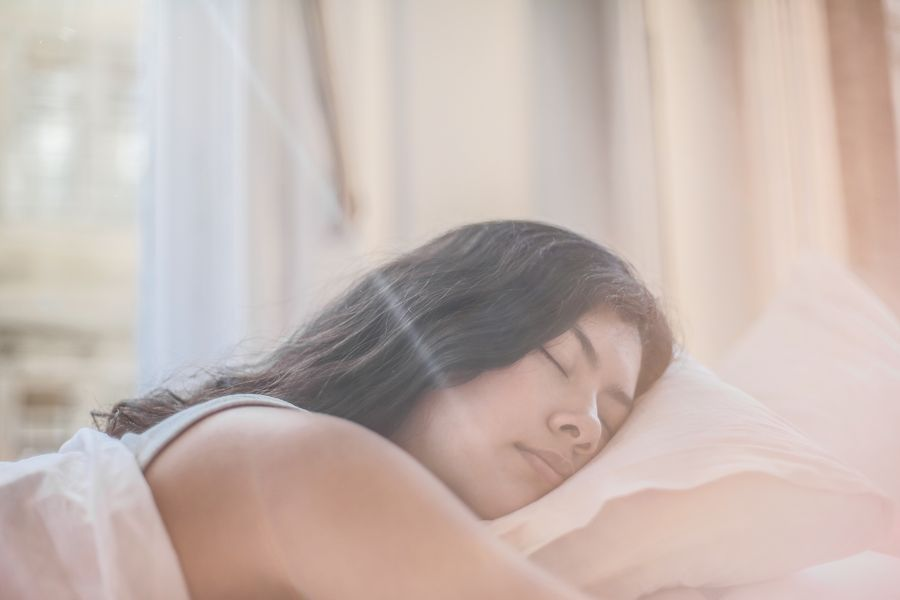
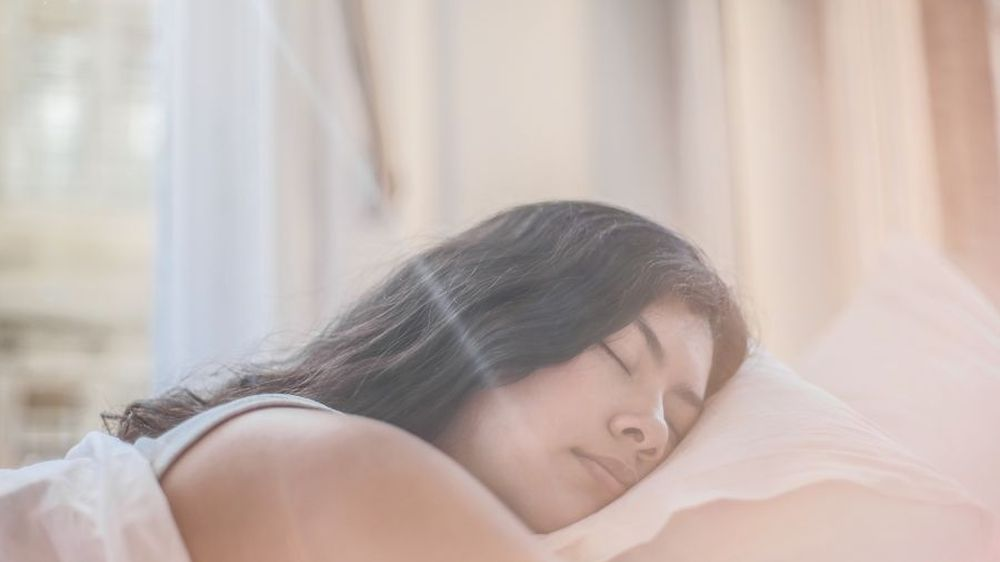
Guide the first run and cut bundled photo weight by a third
A brand-new install landed on a home screen of dashes and empty states
with no hint of what to do. A first-run card now says the one thing that
matters — mark the day your period starts — and sets the honest
expectation that estimates need two full cycles, so their absence reads
as designed rather than broken. It also offers back-dating, since most
people install mid-cycle.

Photos: 1.99 MB → 1.27 MB. Portrait sources were being center-cropped by
BoxFit.cover anyway, so pre-cropping to the aspect each card actually
renders drops the wasted pixels with no visual change (spot-checked the
results). Thumbnails and theme swatches now cap decode size via
cacheWidth/ResizeImage — a 72px thumbnail was decoding a full-resolution
bitmap into memory.

102 tests passing; Android and iOS builds verified.

diff --git a/app/lib/screens/home/widgets/first_run_card.dart b/app/lib/screens/home/widgets/first_run_card.dart
@@ -1,0 +1,80 @@
+import 'package:flutter/material.dart';
+import 'package:provider/provider.dart';
+
+import '../../../l10n/app_localizations.dart';
+import '../../../models/day_log.dart';
+import '../../../models/enums.dart';
+import '../../../state/cycle_controller.dart';
+import '../../../util/day.dart';
+
+/// Shown while there is genuinely nothing logged.
+///
+/// A brand-new install otherwise lands on a home screen full of dashes
+/// and empty states with no hint of what to do. This says the one thing
+/// that matters — mark the day your period starts — and sets the honest
+/// expectation that predictions need two full cycles first, so their
+/// absence doesn't read as the app being broken.
+class FirstRunCard extends StatelessWidget {
+  const FirstRunCard({super.key});
+
+  @override
+  Widget build(BuildContext context) {
+    final controller = context.watch<CycleController>();
+    if (controller.logs.isNotEmpty) return const SizedBox.shrink();
+
+    final l10n = AppLocalizations.of(context)!;
+    final theme = Theme.of(context);
+
+    return Container(
+      width: double.infinity,
+      padding: const EdgeInsets.all(18),
+      decoration: BoxDecoration(
+        color: theme.colorScheme.primaryContainer.withValues(alpha: 0.6),
+        borderRadius: BorderRadius.circular(20),
+      ),
+      child: Column(
+        crossAxisAlignment: CrossAxisAlignment.start,
+        children: [
+          Row(
+            children: [
+              Icon(Icons.waving_hand_outlined,
+                  size: 20, color: theme.colorScheme.onPrimaryContainer),
+              const SizedBox(width: 8),
+              Expanded(
+                child:
+                    Text(l10n.homeEmptyTitle, style: theme.textTheme.titleSmall),
+              ),
+            ],
+          ),
+          const SizedBox(height: 8),
+          Text(l10n.homeEmptyBody, style: theme.textTheme.bodySmall),
+          const SizedBox(height: 8),
+          Align(
+            alignment: AlignmentDirectional.centerEnd,
+            child: TextButton(
+              onPressed: () => _pickPastStart(context),
+              child: Text(l10n.homeEmptyBackdate),
+            ),
+          ),
+        ],
+      ),
+    );
+  }
+
+  /// Most people install mid-cycle, so "it already started earlier" is the
+  /// common case, not an edge case.
+  Future<void> _pickPastStart(BuildContext context) async {
+    final controller = context.read<CycleController>();
+    final now = today();
+    final picked = await showDatePicker(
+      context: context,
+      initialDate: now,
+      firstDate: addDays(now, -120),
+      lastDate: now,
+    );
+    if (picked == null) return;
+    await controller.upsertDay(
+      DayLog(date: dateOnly(picked), flow: FlowIntensity.medium),
+    );
+  }
+}

diff --git a/app/lib/l10n/app_localizations.dart b/app/lib/l10n/app_localizations.dart
@@ -2523,6 +2523,24 @@ abstract class AppLocalizations {
   /// In en, this message translates to:
   /// **'Past cycles'**
   String get insightsCycleHistoryEntry;
+
+  /// No description provided for @homeEmptyTitle.
+  ///
+  /// In en, this message translates to:
+  /// **'Let\'s start with your last period'**
+  String get homeEmptyTitle;
+
+  /// No description provided for @homeEmptyBody.
+  ///
+  /// In en, this message translates to:
+  /// **'Tap the button above on the day your period starts. After two full cycles Vera can start estimating — until then it won\'t pretend to know.'**
+  String get homeEmptyBody;
+
+  /// No description provided for @homeEmptyBackdate.
+  ///
+  /// In en, this message translates to:
+  /// **'It already started earlier'**
+  String get homeEmptyBackdate;
 }
 
 class _AppLocalizationsDelegate

diff --git a/app/lib/screens/home/home_screen.dart b/app/lib/screens/home/home_screen.dart
@@ -13,6 +13,7 @@ import 'widgets/ad_placeholder_banner.dart';
 import 'widgets/backup_nudge_card.dart';
 import 'widgets/cycle_ring.dart';
 import 'widgets/daily_insight_card.dart';
+import 'widgets/first_run_card.dart';
 import 'widgets/home_hero.dart';
 import 'widgets/phase_timeline_bar.dart';
 import 'widgets/pregnancy_card.dart';
@@ -112,6 +113,7 @@ class HomeScreen extends StatelessWidget {
                       const SizedBox(height: 20),
                       PregnancyCard(info: pregnancyInfo),
                     ] else ...[
+                      const FirstRunCard(),
                       PhaseTimelineBar(
                         status: status,
                         cycleLength: ringLength,

diff --git a/app/lib/l10n/app_localizations_ar.dart b/app/lib/l10n/app_localizations_ar.dart
@@ -1316,4 +1316,14 @@ class AppLocalizationsAr extends AppLocalizations {
 
   @override
   String get insightsCycleHistoryEntry => 'الدورات السابقة';
+
+  @override
+  String get homeEmptyTitle => 'لنبدأ بآخر دورة لك';
+
+  @override
+  String get homeEmptyBody =>
+      'اضغطي الزر أعلاه في اليوم الذي تبدأ فيه دورتك. بعد دورتين كاملتين يمكن لفيرا أن تبدأ التقدير — وحتى ذلك الحين لن تتظاهر بالمعرفة.';
+
+  @override
+  String get homeEmptyBackdate => 'لقد بدأت بالفعل قبل ذلك';
 }

diff --git a/app/lib/l10n/app_localizations_fr.dart b/app/lib/l10n/app_localizations_fr.dart
@@ -1339,4 +1339,14 @@ class AppLocalizationsFr extends AppLocalizations {
 
   @override
   String get insightsCycleHistoryEntry => 'Cycles passés';
+
+  @override
+  String get homeEmptyTitle => 'Commençons par tes dernières règles';
+
+  @override
+  String get homeEmptyBody =>
+      'Appuie sur le bouton ci-dessus le jour où tes règles commencent. Après deux cycles complets, Vera pourra estimer — d\'ici là, elle ne fera pas semblant de savoir.';
+
+  @override
+  String get homeEmptyBackdate => 'Elles ont déjà commencé avant';
 }

diff --git a/app/lib/screens/insights/widgets/phase_tips_section.dart b/app/lib/screens/insights/widgets/phase_tips_section.dart
@@ -106,8 +106,10 @@ class _TipCard extends StatelessWidget {
         children: [
           ClipRRect(
             borderRadius: BorderRadius.circular(14),
+            // cacheWidth caps decode size: without it a 72px-wide
+            // thumbnail still decodes the full-resolution bitmap.
             child: Image.asset(photoAsset,
-                width: 72, height: 88, fit: BoxFit.cover),
+                width: 72, height: 88, fit: BoxFit.cover, cacheWidth: 216),
           ),
           const SizedBox(width: 12),
           Expanded(

diff --git a/app/lib/l10n/app_localizations_de.dart b/app/lib/l10n/app_localizations_de.dart
@@ -1335,4 +1335,14 @@ class AppLocalizationsDe extends AppLocalizations {
 
   @override
   String get insightsCycleHistoryEntry => 'Frühere Zyklen';
+
+  @override
+  String get homeEmptyTitle => 'Beginnen wir mit deiner letzten Periode';
+
+  @override
+  String get homeEmptyBody =>
+      'Tippe am Tag deines Periodenbeginns auf den Button oben. Nach zwei vollständigen Zyklen kann Vera schätzen — bis dahin tut sie nicht so, als wüsste sie es.';
+
+  @override
+  String get homeEmptyBackdate => 'Sie hat schon früher begonnen';
 }

diff --git a/app/lib/l10n/app_localizations_id.dart b/app/lib/l10n/app_localizations_id.dart
@@ -1327,4 +1327,14 @@ class AppLocalizationsId extends AppLocalizations {
 
   @override
   String get insightsCycleHistoryEntry => 'Siklus sebelumnya';
+
+  @override
+  String get homeEmptyTitle => 'Mari mulai dari haid terakhirmu';
+
+  @override
+  String get homeEmptyBody =>
+      'Ketuk tombol di atas pada hari haidmu dimulai. Setelah dua siklus penuh Vera bisa mulai memperkirakan — sampai saat itu ia tidak akan berpura-pura tahu.';
+
+  @override
+  String get homeEmptyBackdate => 'Sudah dimulai sebelumnya';
 }

diff --git a/app/lib/l10n/app_localizations_tr.dart b/app/lib/l10n/app_localizations_tr.dart
@@ -1324,4 +1324,14 @@ class AppLocalizationsTr extends AppLocalizations {
 
   @override
   String get insightsCycleHistoryEntry => 'Geçmiş döngüler';
+
+  @override
+  String get homeEmptyTitle => 'Son reglinle başlayalım';
+
+  @override
+  String get homeEmptyBody =>
+      'Reglin başladığı gün yukarıdaki butona dokun. İki tam döngüden sonra Vera tahmin etmeye başlayabilir — o zamana kadar biliyormuş gibi yapmaz.';
+
+  @override
+  String get homeEmptyBackdate => 'Zaten daha önce başladı';
 }

diff --git a/app/lib/l10n/app_localizations_en.dart b/app/lib/l10n/app_localizations_en.dart
@@ -1318,4 +1318,14 @@ class AppLocalizationsEn extends AppLocalizations {
 
   @override
   String get insightsCycleHistoryEntry => 'Past cycles';
+
+  @override
+  String get homeEmptyTitle => 'Let\'s start with your last period';
+
+  @override
+  String get homeEmptyBody =>
+      'Tap the button above on the day your period starts. After two full cycles Vera can start estimating — until then it won\'t pretend to know.';
+
+  @override
+  String get homeEmptyBackdate => 'It already started earlier';
 }

diff --git a/app/lib/l10n/app_localizations_hi.dart b/app/lib/l10n/app_localizations_hi.dart
@@ -1320,4 +1320,14 @@ class AppLocalizationsHi extends AppLocalizations {
 
   @override
   String get insightsCycleHistoryEntry => 'Past cycles';
+
+  @override
+  String get homeEmptyTitle => 'Let\'s start with your last period';
+
+  @override
+  String get homeEmptyBody =>
+      'Tap the button above on the day your period starts. After two full cycles Vera can start estimating — until then it won\'t pretend to know.';
+
+  @override
+  String get homeEmptyBackdate => 'It already started earlier';
 }

diff --git a/app/lib/l10n/app_localizations_it.dart b/app/lib/l10n/app_localizations_it.dart
@@ -1321,4 +1321,14 @@ class AppLocalizationsIt extends AppLocalizations {
 
   @override
   String get insightsCycleHistoryEntry => 'Past cycles';
+
+  @override
+  String get homeEmptyTitle => 'Let\'s start with your last period';
+
+  @override
+  String get homeEmptyBody =>
+      'Tap the button above on the day your period starts. After two full cycles Vera can start estimating — until then it won\'t pretend to know.';
+
+  @override
+  String get homeEmptyBackdate => 'It already started earlier';
 }
